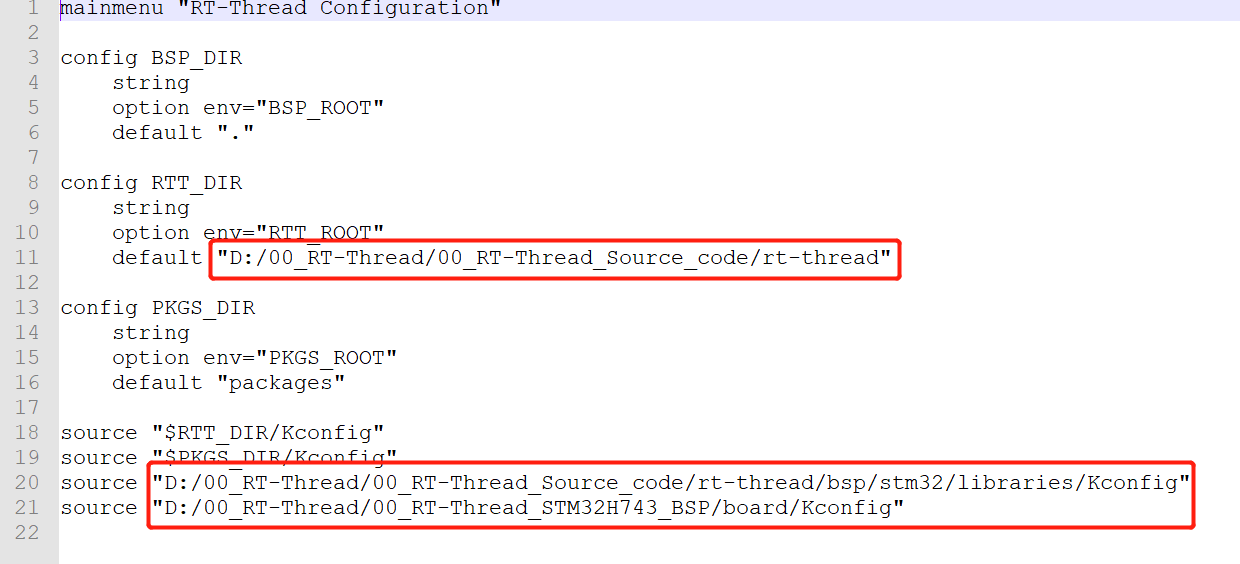
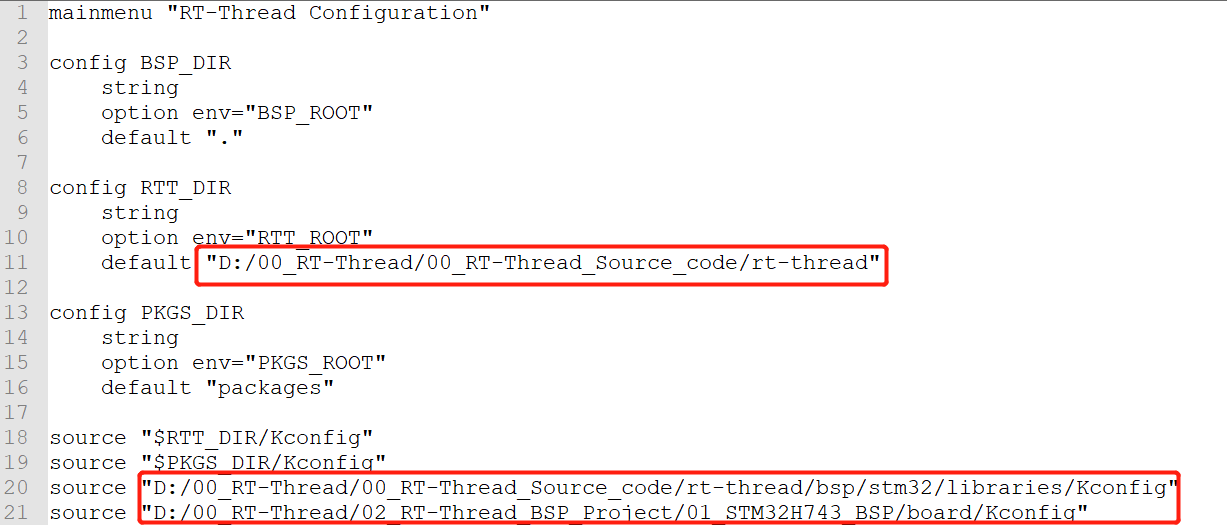
Site updated: 2020-09-13 23:52:45

Changed region(s): [[0.0, 0.0, 0.991, 1.0]]

diff --git a/2020/09/10/RT-Thread-BSP制作/index.html b/2020/09/10/RT-Thread-BSP制作/index.html
@@ -55,6 +55,10 @@
 <meta property="og:image" content="https://wulizhaoch.github.io/2020/09/10/RT-Thread-BSP%E5%88%B6%E4%BD%9C/27.png">
 <meta property="og:image" content="https://wulizhaoch.github.io/2020/09/10/RT-Thread-BSP%E5%88%B6%E4%BD%9C/28.png">
 <meta property="og:image" content="https://wulizhaoch.github.io/2020/09/10/RT-Thread-BSP%E5%88%B6%E4%BD%9C/29.png">
+<meta property="og:image" content="https://wulizhaoch.github.io/2020/09/10/RT-Thread-BSP%E5%88%B6%E4%BD%9C/30.png">
+<meta property="og:image" content="https://wulizhaoch.github.io/2020/09/10/RT-Thread-BSP%E5%88%B6%E4%BD%9C/31.png">
+<meta property="og:image" content="https://wulizhaoch.github.io/2020/09/10/RT-Thread-BSP%E5%88%B6%E4%BD%9C/32.png">
+<meta property="og:image" content="https://wulizhaoch.github.io/2020/09/10/RT-Thread-BSP%E5%88%B6%E4%BD%9C/33.png">
 <meta property="og:image" content="https://wulizhaoch.github.io/2020/09/10/RT-Thread-BSP%E5%88%B6%E4%BD%9C/34.png">
 <meta property="og:image" content="https://wulizhaoch.github.io/2020/09/10/RT-Thread-BSP%E5%88%B6%E4%BD%9C/35.png">
 <meta property="article:published_time" content="2020-09-10T14:54:15.000Z">
@@ -368,82 +372,38 @@
 </li>
 <li><p>修改第一个 Kconfig 文件</p>
 <p><img src="/2020/09/10/RT-Thread-BSP%E5%88%B6%E4%BD%9C/27.png" alt="Env"></p>
-<ul>
-<li><pre><code class="c"><span class="built_in">config</span> RTT_DIR
-    <span class="built_in">string</span>
-    option env=<span class="string">"RTT_ROOT"</span>
-    <span class="keyword">default</span> <span class="string">"../../.."</span>
-<span class="comment">/*-----------------------------------------------------------*/</span>
-<span class="built_in">config</span> RTT_DIR
-    <span class="built_in">string</span>
-    option env=<span class="string">"RTT_ROOT"</span>
-    <span class="keyword">default</span> <span class="string">"D:/00_RT-Thread/00_RT-Thread_Source_code/rt-thread"</span>
-&lt;!--<span class="number">1</span>--&gt;
-</code></pre>
-</li>
-</ul>
+ <figure class="highlight c"><table><tr><td class="code"><pre><span class="line"><span class="built_in">config</span> RTT_DIR</span><br><span class="line">     <span class="built_in">string</span></span><br><span class="line">     option env=<span class="string">"RTT_ROOT"</span></span><br><span class="line">     <span class="keyword">default</span> <span class="string">"../../.."</span></span><br><span class="line"> <span class="comment">/*-----------------------------------------------------------*/</span></span><br><span class="line"> <span class="built_in">config</span> RTT_DIR</span><br><span class="line">     <span class="built_in">string</span></span><br><span class="line">     option env=<span class="string">"RTT_ROOT"</span></span><br><span class="line">     <span class="keyword">default</span> <span class="string">"D:/00_RT-Thread/00_RT-Thread_Source_code/rt-thread"</span></span><br></pre></td></tr></table></figure>
+
+<figure class="highlight c"><table><tr><td class="code"><pre><span class="line">source <span class="string">"../libraries/Kconfig"</span></span><br><span class="line">source <span class="string">"board/Kconfig"</span></span><br><span class="line"><span class="comment">/*-----------------------------------------------------------*/</span></span><br><span class="line">source <span class="string">"D:/00_RT-Thread/00_RT-Thread_Source_code/rt-thread/bsp/stm32/libraries/Kconfig"</span></span><br><span class="line">source <span class="string">"D:/00_RT-Thread/02_RT-Thread_BSP_Project/01_STM32H743_BSP/board/Kconfig"</span></span><br></pre></td></tr></table></figure>
+
 </li>
 </ul>
 <p><img src="/2020/09/10/RT-Thread-BSP%E5%88%B6%E4%BD%9C/28.png" alt="Env"></p>
 <ul>
 <li><p>修改第二个 Kconfig 文件</p>
 <p><img src="/2020/09/10/RT-Thread-BSP%E5%88%B6%E4%BD%9C/29.png" alt="Env"></p>
-<ul>
-<li><pre><code class="C">source <span class="string">"../libraries/HAL_Drivers/Kconfig"</span>
-<span class="comment">/*-----------------------------------------------------------*/</span>
-source <span class="string">"D:/00_RT-Thread/00_RT-Thread_Source_code/rt-thread/bsp/stm32/libraries/HAL_Drivers/Kconfig"</span>
-&lt;!--<span class="number">2</span>--&gt;</code></pre>
+<figure class="highlight c"><table><tr><td class="code"><pre><span class="line">source <span class="string">"../libraries/HAL_Drivers/Kconfig"</span></span><br><span class="line"><span class="comment">/*-----------------------------------------------------------*/</span></span><br><span class="line">source <span class="string">"D:/00_RT-Thread/00_RT-Thread_Source_code/rt-thread/bsp/stm32/libraries/HAL_Drivers/Kconfig"</span></span><br></pre></td></tr></table></figure>
+
 </li>
-<li><pre><code class="python">SDK_ROOT = os.path.abspath(<span class="string">'./'</span>)
+</ul>
+<p><img src="/2020/09/10/RT-Thread-BSP%E5%88%B6%E4%BD%9C/30.png" alt="Env"></p>
+<p>然后在Env界面再次输入 menuconfig 命令对工程进行配置，并生成  rtconfig.h 文件。</p>
+<p><img src="/2020/09/10/RT-Thread-BSP%E5%88%B6%E4%BD%9C/31.png" alt="Env"></p>
+<p><img src="/2020/09/10/RT-Thread-BSP%E5%88%B6%E4%BD%9C/32.png" alt="Env"></p>
+<h6 id="5-4-2-重新生成-MDK-IAR-工程"><a href="#5-4-2-重新生成-MDK-IAR-工程" class="headerlink" title="5.4.2 重新生成 MDK / IAR 工程"></a>5.4.2 重新生成 MDK / IAR 工程</h6><p>输入 scons 命令后出现如下图所示的情况：</p>
+<p><img src="/2020/09/10/RT-Thread-BSP%E5%88%B6%E4%BD%9C/33.png" alt="Env"></p>
+<p><strong>注意：针对以上情况如何处理，出现这样的情况是因为脱离了官方源代码 rt-thread\bsp\stm 路径。</strong></p>
+<ul>
+<li><p>首先，要知道自己下载 RT-Thread 源代码的路径 (本人 RT-Thread 源代码路径：D:\00_RT-Thread\00_RT-Thread_Source_code\rt-thread) </p>
+</li>
+<li><p>修改 SConstruct 文件</p>
+ <figure class="highlight"><table><tr><td class="code"><pre><span class="line">if os.getenv('RTT_ROOT'):</span><br><span class="line">    RTT_ROOT = os.getenv('RTT_ROOT')</span><br><span class="line"><span class="keyword">else</span>:</span><br><span class="line">    RTT_ROOT = os.path.normpath(os.getcwd() + '/../../..')</span><br><span class="line">        </span><br><span class="line"><span class="comment">/*-----------------------------------------------------------*/</span> </span><br><span class="line">        </span><br><span class="line">RTT_ROOT = 'D:/00_RT-Thread/00_RT-Thread_Source_code/rt-thread'</span><br></pre></td></tr></table></figure>
 
-<span class="keyword">if</span> os.path.exists(SDK_ROOT + <span class="string">'/libraries'</span>):
-    libraries_path_prefix = SDK_ROOT + <span class="string">'/libraries'</span>
-<span class="keyword">else</span>:
-    libraries_path_prefix = os.path.dirname(SDK_ROOT) + <span class="string">'/libraries'</span>
+ <figure class="highlight python"><table><tr><td class="code"><pre><span class="line">SDK_ROOT = os.path.abspath(<span class="string">'./'</span>)</span><br><span class="line"></span><br><span class="line"><span class="keyword">if</span> os.path.exists(SDK_ROOT + <span class="string">'/libraries'</span>):</span><br><span class="line">    libraries_path_prefix = SDK_ROOT + <span class="string">'/libraries'</span></span><br><span class="line"><span class="keyword">else</span>:</span><br><span class="line">    libraries_path_prefix = os.path.dirname(SDK_ROOT) + <span class="string">'/libraries'</span></span><br><span class="line"></span><br><span class="line">SDK_LIB = libraries_path_prefix</span><br><span class="line">Export(<span class="string">'SDK_LIB'</span>)</span><br><span class="line"></span><br><span class="line"><span class="comment"># prepare building environment</span></span><br><span class="line">objs = PrepareBuilding(env, RTT_ROOT, has_libcpu=<span class="literal">False</span>)</span><br><span class="line"></span><br><span class="line">stm32_library = <span class="string">'STM32H7xx_HAL'</span></span><br><span class="line">rtconfig.BSP_LIBRARY_TYPE = stm32_library</span><br><span class="line"></span><br><span class="line"><span class="comment"># include drivers</span></span><br><span class="line">objs.extend(SConscript(os.path.join(libraries_path_prefix, stm32_library, <span class="string">'SConscript'</span>)))</span><br><span class="line"></span><br><span class="line"><span class="comment"># include libraries</span></span><br><span class="line">objs.extend(SConscript(os.path.join(libraries_path_prefix, <span class="string">'HAL_Drivers'</span>, <span class="string">'SConscript'</span>)))</span><br><span class="line">        </span><br><span class="line">/*-----------------------------------------------------------*/ </span><br><span class="line">        </span><br><span class="line">SDK_ROOT = os.path.abspath(<span class="string">'D:/00_RT-Thread/00_RT-Thread_Source_code/rt-thread/bsp/stm32'</span>)</span><br><span class="line"></span><br><span class="line"><span class="keyword">if</span> os.path.exists(SDK_ROOT + <span class="string">'/libraries'</span>):</span><br><span class="line">    libraries_path_prefix = SDK_ROOT + <span class="string">'/libraries'</span></span><br><span class="line"><span class="keyword">else</span>:</span><br><span class="line">    libraries_path_prefix = os.path.dirname(SDK_ROOT) + <span class="string">'/libraries'</span></span><br><span class="line"></span><br><span class="line">SDK_LIB = libraries_path_prefix</span><br><span class="line">Export(<span class="string">'SDK_LIB'</span>)</span><br><span class="line"></span><br><span class="line"><span class="comment"># prepare building environment</span></span><br><span class="line">objs = PrepareBuilding(env, RTT_ROOT, has_libcpu=<span class="literal">False</span>)</span><br><span class="line"></span><br><span class="line">stm32_library = <span class="string">'D:/00_RT-Thread/00_RT-Thread_Source_code/rt-thread/bsp/stm32/libraries/STM32H7xx_HAL'</span></span><br><span class="line">rtconfig.BSP_LIBRARY_TYPE = stm32_library</span><br><span class="line"></span><br><span class="line"><span class="comment"># include drivers</span></span><br><span class="line">objs.extend(SConscript(os.path.join(libraries_path_prefix, stm32_library, <span class="string">'SConscript'</span>)))</span><br><span class="line"></span><br><span class="line"><span class="comment"># include libraries</span></span><br><span class="line">objs.extend(SConscript(os.path.join(libraries_path_prefix, <span class="string">'D:/00_RT-Thread/00_RT-Thread_Source_code/rt-thread/bsp/stm32/libraries/HAL_Drivers'</span>, <span class="string">'SConscript'</span>)))</span><br></pre></td></tr></table></figure>
 
-SDK_LIB = libraries_path_prefix
-Export(<span class="string">'SDK_LIB'</span>)
-
-<span class="comment"># prepare building environment</span>
-objs = PrepareBuilding(env, RTT_ROOT, has_libcpu=<span class="literal">False</span>)
-
-stm32_library = <span class="string">'STM32H7xx_HAL'</span>
-rtconfig.BSP_LIBRARY_TYPE = stm32_library
-
-<span class="comment"># include drivers</span>
-objs.extend(SConscript(os.path.join(libraries_path_prefix, stm32_library, <span class="string">'SConscript'</span>)))
-
-<span class="comment"># include libraries</span>
-objs.extend(SConscript(os.path.join(libraries_path_prefix, <span class="string">'HAL_Drivers'</span>, <span class="string">'SConscript'</span>)))
-
-/*-----------------------------------------------------------*/ 
-
-SDK_ROOT = os.path.abspath(<span class="string">'D:/00_RT-Thread/00_RT-Thread_Source_code/rt-thread/bsp/stm32'</span>)
-
-<span class="keyword">if</span> os.path.exists(SDK_ROOT + <span class="string">'/libraries'</span>):
-    libraries_path_prefix = SDK_ROOT + <span class="string">'/libraries'</span>
-<span class="keyword">else</span>:
-    libraries_path_prefix = os.path.dirname(SDK_ROOT) + <span class="string">'/libraries'</span>
-
-SDK_LIB = libraries_path_prefix
-Export(<span class="string">'SDK_LIB'</span>)
-
-<span class="comment"># prepare building environment</span>
-objs = PrepareBuilding(env, RTT_ROOT, has_libcpu=<span class="literal">False</span>)
-
-stm32_library = <span class="string">'D:/00_RT-Thread/00_RT-Thread_Source_code/rt-thread/bsp/stm32/libraries/STM32H7xx_HAL'</span>
-rtconfig.BSP_LIBRARY_TYPE = stm32_library
-
-<span class="comment"># include drivers</span>
-objs.extend(SConscript(os.path.join(libraries_path_prefix, stm32_library, <span class="string">'SConscript'</span>)))
-
-<span class="comment"># include libraries</span>
-objs.extend(SConscript(os.path.join(libraries_path_prefix, <span class="string">'D:/00_RT-Thread/00_RT-Thread_Source_code/rt-thread/bsp/stm32/libraries/HAL_Drivers'</span>, <span class="string">'SConscript'</span>)))</code></pre>
 </li>
 </ul>
 <p>然后在Env界面再次输入 <strong>scons –target=mdk5</strong> 命令重新生成工程。</p>
-</li>
-</ul>
 <p><img src="/2020/09/10/RT-Thread-BSP%E5%88%B6%E4%BD%9C/34.png" alt="Env"></p>
 <p><img src="/2020/09/10/RT-Thread-BSP%E5%88%B6%E4%BD%9C/35.png" alt="Env"></p>
 <p>如果出现以上结果，新的 BSP 已经制作成功了，可以使用了 。 </p>
@@ -533,7 +493,7 @@ objs.extend(SConscript(os.path.join(libraries_path_prefix, <span class="string">
 
       <!--noindex-->
       <div class="post-toc-wrap sidebar-panel">
-          <div class="post-toc motion-element"><ol class="nav"><li class="nav-item nav-level-1"><a class="nav-link" href="#STM32-Series-BSP-Production-BSP制作教程"><span class="nav-text">STM32 Series BSP Production(BSP制作教程)</span></a><ol class="nav-child"><li class="nav-item nav-level-4"><a class="nav-link" href="#STM32-Series-BSP-Production-制作方法"><span class="nav-text">STM32 Series BSP Production 制作方法</span></a></li><li class="nav-item nav-level-4"><a class="nav-link" href="#1-复制通用模板"><span class="nav-text">1.   复制通用模板</span></a><ol class="nav-child"><li class="nav-item nav-level-5"><a class="nav-link" href="#1-1-下载-RT-Thread-源代码"><span class="nav-text">1.1 下载 RT-Thread 源代码</span></a></li><li class="nav-item nav-level-5"><a class="nav-link" href="#1-2-打开源代码模板路径-rt-thread-bsp-stm32-libraries-templates-stm32h7xx。"><span class="nav-text">1.2 打开源代码模板路径  rt-thread\bsp\stm32\libraries\templates\stm32h7xx。</span></a></li><li class="nav-item nav-level-5"><a class="nav-link" href="#1-3-创建-01-STM32H743-BSP-文件夹，将官方提供的模板-stm32h7xx-拷贝进来。"><span class="nav-text">1.3  创建 01_STM32H743_BSP 文件夹，将官方提供的模板 (stm32h7xx) 拷贝进来。</span></a><ol class="nav-child"><li class="nav-item nav-level-6"><a class="nav-link" href="#1-3-1-Board-文件夹下修改的内容"><span class="nav-text">1.3.1 Board 文件夹下修改的内容</span></a></li></ol></li></ol></li><li class="nav-item nav-level-4"><a class="nav-link" href="#2-STM32CubeMX-工程配置"><span class="nav-text">2.  STM32CubeMX 工程配置</span></a><ol class="nav-child"><li class="nav-item nav-level-5"><a class="nav-link" href="#2-1-打开-CubeMX-Config-ioc-工程文件"><span class="nav-text">2.1 打开 CubeMX_Config.ioc 工程文件</span></a></li><li class="nav-item nav-level-5"><a class="nav-link" href="#2-2-STM32CubeMX-工程生成"><span class="nav-text">2.2 STM32CubeMX 工程生成</span></a><ol class="nav-child"><li class="nav-item nav-level-6"><a class="nav-link" href="#2-2-1-打开外部时钟设置"><span class="nav-text">2.2.1   打开外部时钟设置</span></a></li><li class="nav-item nav-level-6"><a class="nav-link" href="#2-2-2-下载方式配置-SWD"><span class="nav-text">2.2.2   下载方式配置 (SWD)</span></a></li><li class="nav-item nav-level-6"><a class="nav-link" href="#2-2-3-调试串口配置-UASRT1"><span class="nav-text">2.2.3   调试串口配置 (UASRT1)</span></a></li><li class="nav-item nav-level-6"><a class="nav-link" href="#2-2-4-EEPROM-配置-IIC"><span class="nav-text">2.2.4   EEPROM 配置 (IIC)</span></a></li><li class="nav-item nav-level-6"><a class="nav-link" href="#2-2-5-系统时钟配置"><span class="nav-text">2.2.5   系统时钟配置</span></a></li><li class="nav-item nav-level-6"><a class="nav-link" href="#2-2-6-Project-Manager-设置-基本不需要修改"><span class="nav-text">2.2.6   Project Manager 设置 (基本不需要修改)</span></a></li><li class="nav-item nav-level-6"><a class="nav-link" href="#2-2-7-点击-GENERAYE-CODE-直接生成工程"><span class="nav-text">2.2.7   点击 GENERAYE CODE 直接生成工程</span></a></li><li class="nav-item nav-level-6"><a class="nav-link" href="#2-2-8-CubeMX-Config目录下生成的文件如下"><span class="nav-text">2.2.8   CubeMX_Config目录下生成的文件如下</span></a></li></ol></li></ol></li><li class="nav-item nav-level-4"><a class="nav-link" href="#3-Board-c-Board-h-文件修改"><span class="nav-text">3.   Board.c &#x2F; Board.h 文件修改</span></a><ol class="nav-child"><li class="nav-item nav-level-5"><a class="nav-link" href="#3-1-SystemClock-Config-函数拷贝-整个系统唯一拷贝的函数"><span class="nav-text">3.1 SystemClock_Config() 函数拷贝 (整个系统唯一拷贝的函数)</span></a></li><li class="nav-item nav-level-5"><a class="nav-link" href="#3-2-系统芯片-Flash-和-RAM-相关参数配置"><span class="nav-text">3.2 系统芯片 Flash 和 RAM 相关参数配置</span></a></li></ol></li><li class="nav-item nav-level-4"><a class="nav-link" href="#4-Kconfig-文件修改-初次制作BSP先不着急修改，后续根据Kconfig语法在修改"><span class="nav-text">4.  Kconfig 文件修改 (初次制作BSP先不着急修改，后续根据Kconfig语法在修改)</span></a></li><li class="nav-item nav-level-4"><a class="nav-link" href="#5-工程构建相关文件修改"><span class="nav-text">5.  工程构建相关文件修改</span></a><ol class="nav-child"><li class="nav-item nav-level-5"><a class="nav-link" href="#5-1-linker-scripts-链接脚本修改"><span class="nav-text">5.1   linker_scripts 链接脚本修改</span></a><ol class="nav-child"><li class="nav-item nav-level-6"><a class="nav-link" href="#5-1-1-MDK-链接脚本修改"><span class="nav-text">5.1.1   MDK 链接脚本修改</span></a></li><li class="nav-item nav-level-6"><a class="nav-link" href="#5-1-2-IAR-链接脚本修改"><span class="nav-text">5.1.2   IAR 链接脚本修改</span></a></li><li class="nav-item nav-level-6"><a class="nav-link" href="#5-1-3-GCC-链接脚本修改"><span class="nav-text">5.1.3   GCC 链接脚本修改</span></a></li></ol></li><li class="nav-item nav-level-5"><a class="nav-link" href="#5-2-SConscript-脚本修改"><span class="nav-text">5.2 SConscript 脚本修改</span></a></li><li class="nav-item nav-level-5"><a class="nav-link" href="#5-3-工程模板修改"><span class="nav-text">5.3 工程模板修改</span></a><ol class="nav-child"><li class="nav-item nav-level-6"><a class="nav-link" href="#5-3-1-打开-template-uvprojx-工程"><span class="nav-text">5.3.1   打开 template.uvprojx 工程</span></a></li><li class="nav-item nav-level-6"><a class="nav-link" href="#5-3-2-选择-BSP-使用的芯片型号"><span class="nav-text">5.3.2   选择 BSP 使用的芯片型号</span></a></li><li class="nav-item nav-level-6"><a class="nav-link" href="#5-3-3-选择并配置下载方式"><span class="nav-text">5.3.3   选择并配置下载方式</span></a></li></ol></li><li class="nav-item nav-level-5"><a class="nav-link" href="#5-4-基于Env重新生成工程"><span class="nav-text">5.4   基于Env重新生成工程</span></a><ol class="nav-child"><li class="nav-item nav-level-6"><a class="nav-link" href="#5-4-1-重新生成-rtconfig-h-文件"><span class="nav-text">5.4.1 重新生成 rtconfig.h 文件</span></a></li></ol></li></ol></li><li class="nav-item nav-level-4"><a class="nav-link" href="#6-文档参考"><span class="nav-text">6. 文档参考</span></a></li></ol></li></ol></li></ol></li></ol></div>
+          <div class="post-toc motion-element"><ol class="nav"><li class="nav-item nav-level-1"><a class="nav-link" href="#STM32-Series-BSP-Production-BSP制作教程"><span class="nav-text">STM32 Series BSP Production(BSP制作教程)</span></a><ol class="nav-child"><li class="nav-item nav-level-4"><a class="nav-link" href="#STM32-Series-BSP-Production-制作方法"><span class="nav-text">STM32 Series BSP Production 制作方法</span></a></li><li class="nav-item nav-level-4"><a class="nav-link" href="#1-复制通用模板"><span class="nav-text">1.   复制通用模板</span></a><ol class="nav-child"><li class="nav-item nav-level-5"><a class="nav-link" href="#1-1-下载-RT-Thread-源代码"><span class="nav-text">1.1 下载 RT-Thread 源代码</span></a></li><li class="nav-item nav-level-5"><a class="nav-link" href="#1-2-打开源代码模板路径-rt-thread-bsp-stm32-libraries-templates-stm32h7xx。"><span class="nav-text">1.2 打开源代码模板路径  rt-thread\bsp\stm32\libraries\templates\stm32h7xx。</span></a></li><li class="nav-item nav-level-5"><a class="nav-link" href="#1-3-创建-01-STM32H743-BSP-文件夹，将官方提供的模板-stm32h7xx-拷贝进来。"><span class="nav-text">1.3  创建 01_STM32H743_BSP 文件夹，将官方提供的模板 (stm32h7xx) 拷贝进来。</span></a><ol class="nav-child"><li class="nav-item nav-level-6"><a class="nav-link" href="#1-3-1-Board-文件夹下修改的内容"><span class="nav-text">1.3.1 Board 文件夹下修改的内容</span></a></li></ol></li></ol></li><li class="nav-item nav-level-4"><a class="nav-link" href="#2-STM32CubeMX-工程配置"><span class="nav-text">2.  STM32CubeMX 工程配置</span></a><ol class="nav-child"><li class="nav-item nav-level-5"><a class="nav-link" href="#2-1-打开-CubeMX-Config-ioc-工程文件"><span class="nav-text">2.1 打开 CubeMX_Config.ioc 工程文件</span></a></li><li class="nav-item nav-level-5"><a class="nav-link" href="#2-2-STM32CubeMX-工程生成"><span class="nav-text">2.2 STM32CubeMX 工程生成</span></a><ol class="nav-child"><li class="nav-item nav-level-6"><a class="nav-link" href="#2-2-1-打开外部时钟设置"><span class="nav-text">2.2.1   打开外部时钟设置</span></a></li><li class="nav-item nav-level-6"><a class="nav-link" href="#2-2-2-下载方式配置-SWD"><span class="nav-text">2.2.2   下载方式配置 (SWD)</span></a></li><li class="nav-item nav-level-6"><a class="nav-link" href="#2-2-3-调试串口配置-UASRT1"><span class="nav-text">2.2.3   调试串口配置 (UASRT1)</span></a></li><li class="nav-item nav-level-6"><a class="nav-link" href="#2-2-4-EEPROM-配置-IIC"><span class="nav-text">2.2.4   EEPROM 配置 (IIC)</span></a></li><li class="nav-item nav-level-6"><a class="nav-link" href="#2-2-5-系统时钟配置"><span class="nav-text">2.2.5   系统时钟配置</span></a></li><li class="nav-item nav-level-6"><a class="nav-link" href="#2-2-6-Project-Manager-设置-基本不需要修改"><span class="nav-text">2.2.6   Project Manager 设置 (基本不需要修改)</span></a></li><li class="nav-item nav-level-6"><a class="nav-link" href="#2-2-7-点击-GENERAYE-CODE-直接生成工程"><span class="nav-text">2.2.7   点击 GENERAYE CODE 直接生成工程</span></a></li><li class="nav-item nav-level-6"><a class="nav-link" href="#2-2-8-CubeMX-Config目录下生成的文件如下"><span class="nav-text">2.2.8   CubeMX_Config目录下生成的文件如下</span></a></li></ol></li></ol></li><li class="nav-item nav-level-4"><a class="nav-link" href="#3-Board-c-Board-h-文件修改"><span class="nav-text">3.   Board.c &#x2F; Board.h 文件修改</span></a><ol class="nav-child"><li class="nav-item nav-level-5"><a class="nav-link" href="#3-1-SystemClock-Config-函数拷贝-整个系统唯一拷贝的函数"><span class="nav-text">3.1 SystemClock_Config() 函数拷贝 (整个系统唯一拷贝的函数)</span></a></li><li class="nav-item nav-level-5"><a class="nav-link" href="#3-2-系统芯片-Flash-和-RAM-相关参数配置"><span class="nav-text">3.2 系统芯片 Flash 和 RAM 相关参数配置</span></a></li></ol></li><li class="nav-item nav-level-4"><a class="nav-link" href="#4-Kconfig-文件修改-初次制作BSP先不着急修改，后续根据Kconfig语法在修改"><span class="nav-text">4.  Kconfig 文件修改 (初次制作BSP先不着急修改，后续根据Kconfig语法在修改)</span></a></li><li class="nav-item nav-level-4"><a class="nav-link" href="#5-工程构建相关文件修改"><span class="nav-text">5.  工程构建相关文件修改</span></a><ol class="nav-child"><li class="nav-item nav-level-5"><a class="nav-link" href="#5-1-linker-scripts-链接脚本修改"><span class="nav-text">5.1   linker_scripts 链接脚本修改</span></a><ol class="nav-child"><li class="nav-item nav-level-6"><a class="nav-link" href="#5-1-1-MDK-链接脚本修改"><span class="nav-text">5.1.1   MDK 链接脚本修改</span></a></li><li class="nav-item nav-level-6"><a class="nav-link" href="#5-1-2-IAR-链接脚本修改"><span class="nav-text">5.1.2   IAR 链接脚本修改</span></a></li><li class="nav-item nav-level-6"><a class="nav-link" href="#5-1-3-GCC-链接脚本修改"><span class="nav-text">5.1.3   GCC 链接脚本修改</span></a></li></ol></li><li class="nav-item nav-level-5"><a class="nav-link" href="#5-2-SConscript-脚本修改"><span class="nav-text">5.2 SConscript 脚本修改</span></a></li><li class="nav-item nav-level-5"><a class="nav-link" href="#5-3-工程模板修改"><span class="nav-text">5.3 工程模板修改</span></a><ol class="nav-child"><li class="nav-item nav-level-6"><a class="nav-link" href="#5-3-1-打开-template-uvprojx-工程"><span class="nav-text">5.3.1   打开 template.uvprojx 工程</span></a></li><li class="nav-item nav-level-6"><a class="nav-link" href="#5-3-2-选择-BSP-使用的芯片型号"><span class="nav-text">5.3.2   选择 BSP 使用的芯片型号</span></a></li><li class="nav-item nav-level-6"><a class="nav-link" href="#5-3-3-选择并配置下载方式"><span class="nav-text">5.3.3   选择并配置下载方式</span></a></li></ol></li><li class="nav-item nav-level-5"><a class="nav-link" href="#5-4-基于Env重新生成工程"><span class="nav-text">5.4   基于Env重新生成工程</span></a><ol class="nav-child"><li class="nav-item nav-level-6"><a class="nav-link" href="#5-4-1-重新生成-rtconfig-h-文件"><span class="nav-text">5.4.1 重新生成 rtconfig.h 文件</span></a></li><li class="nav-item nav-level-6"><a class="nav-link" href="#5-4-2-重新生成-MDK-IAR-工程"><span class="nav-text">5.4.2 重新生成 MDK &#x2F; IAR 工程</span></a></li></ol></li></ol></li><li class="nav-item nav-level-4"><a class="nav-link" href="#6-文档参考"><span class="nav-text">6. 文档参考</span></a></li></ol></li></ol></li></ol></li></ol></div>
       </div>
       <!--/noindex-->
 

diff --git a/css/main.css b/css/main.css
@@ -1169,7 +1169,7 @@ pre .javascript .function {
 }
 .links-of-author a::before,
 .links-of-author span.exturl::before {
-  background: #fbff8a;
+  background: #ffe3c1;
   border-radius: 50%;
   content: ' ';
   display: inline-block;
